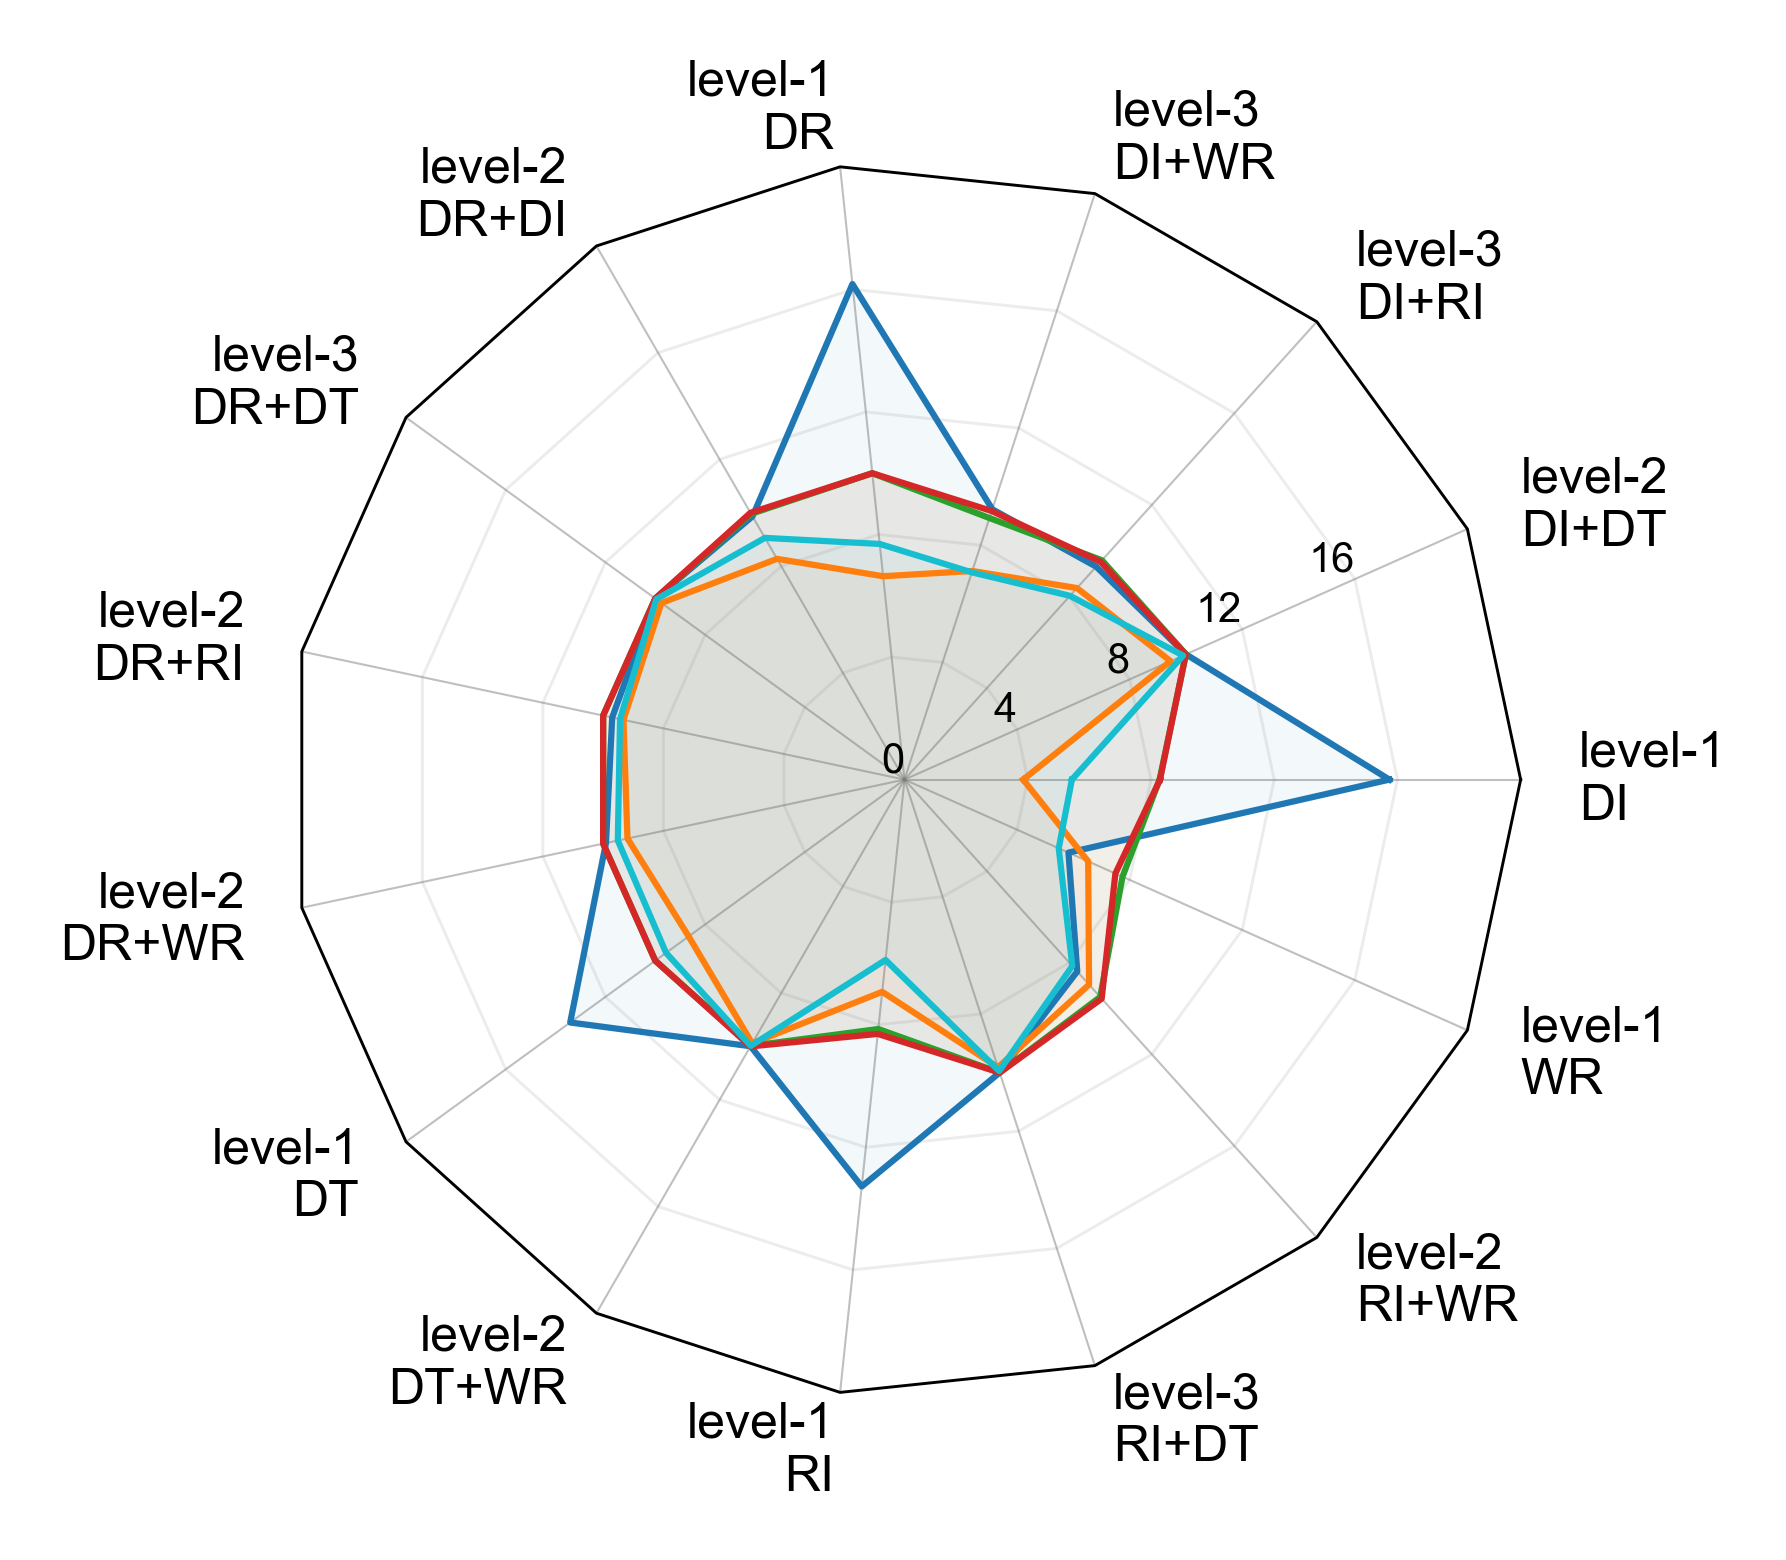
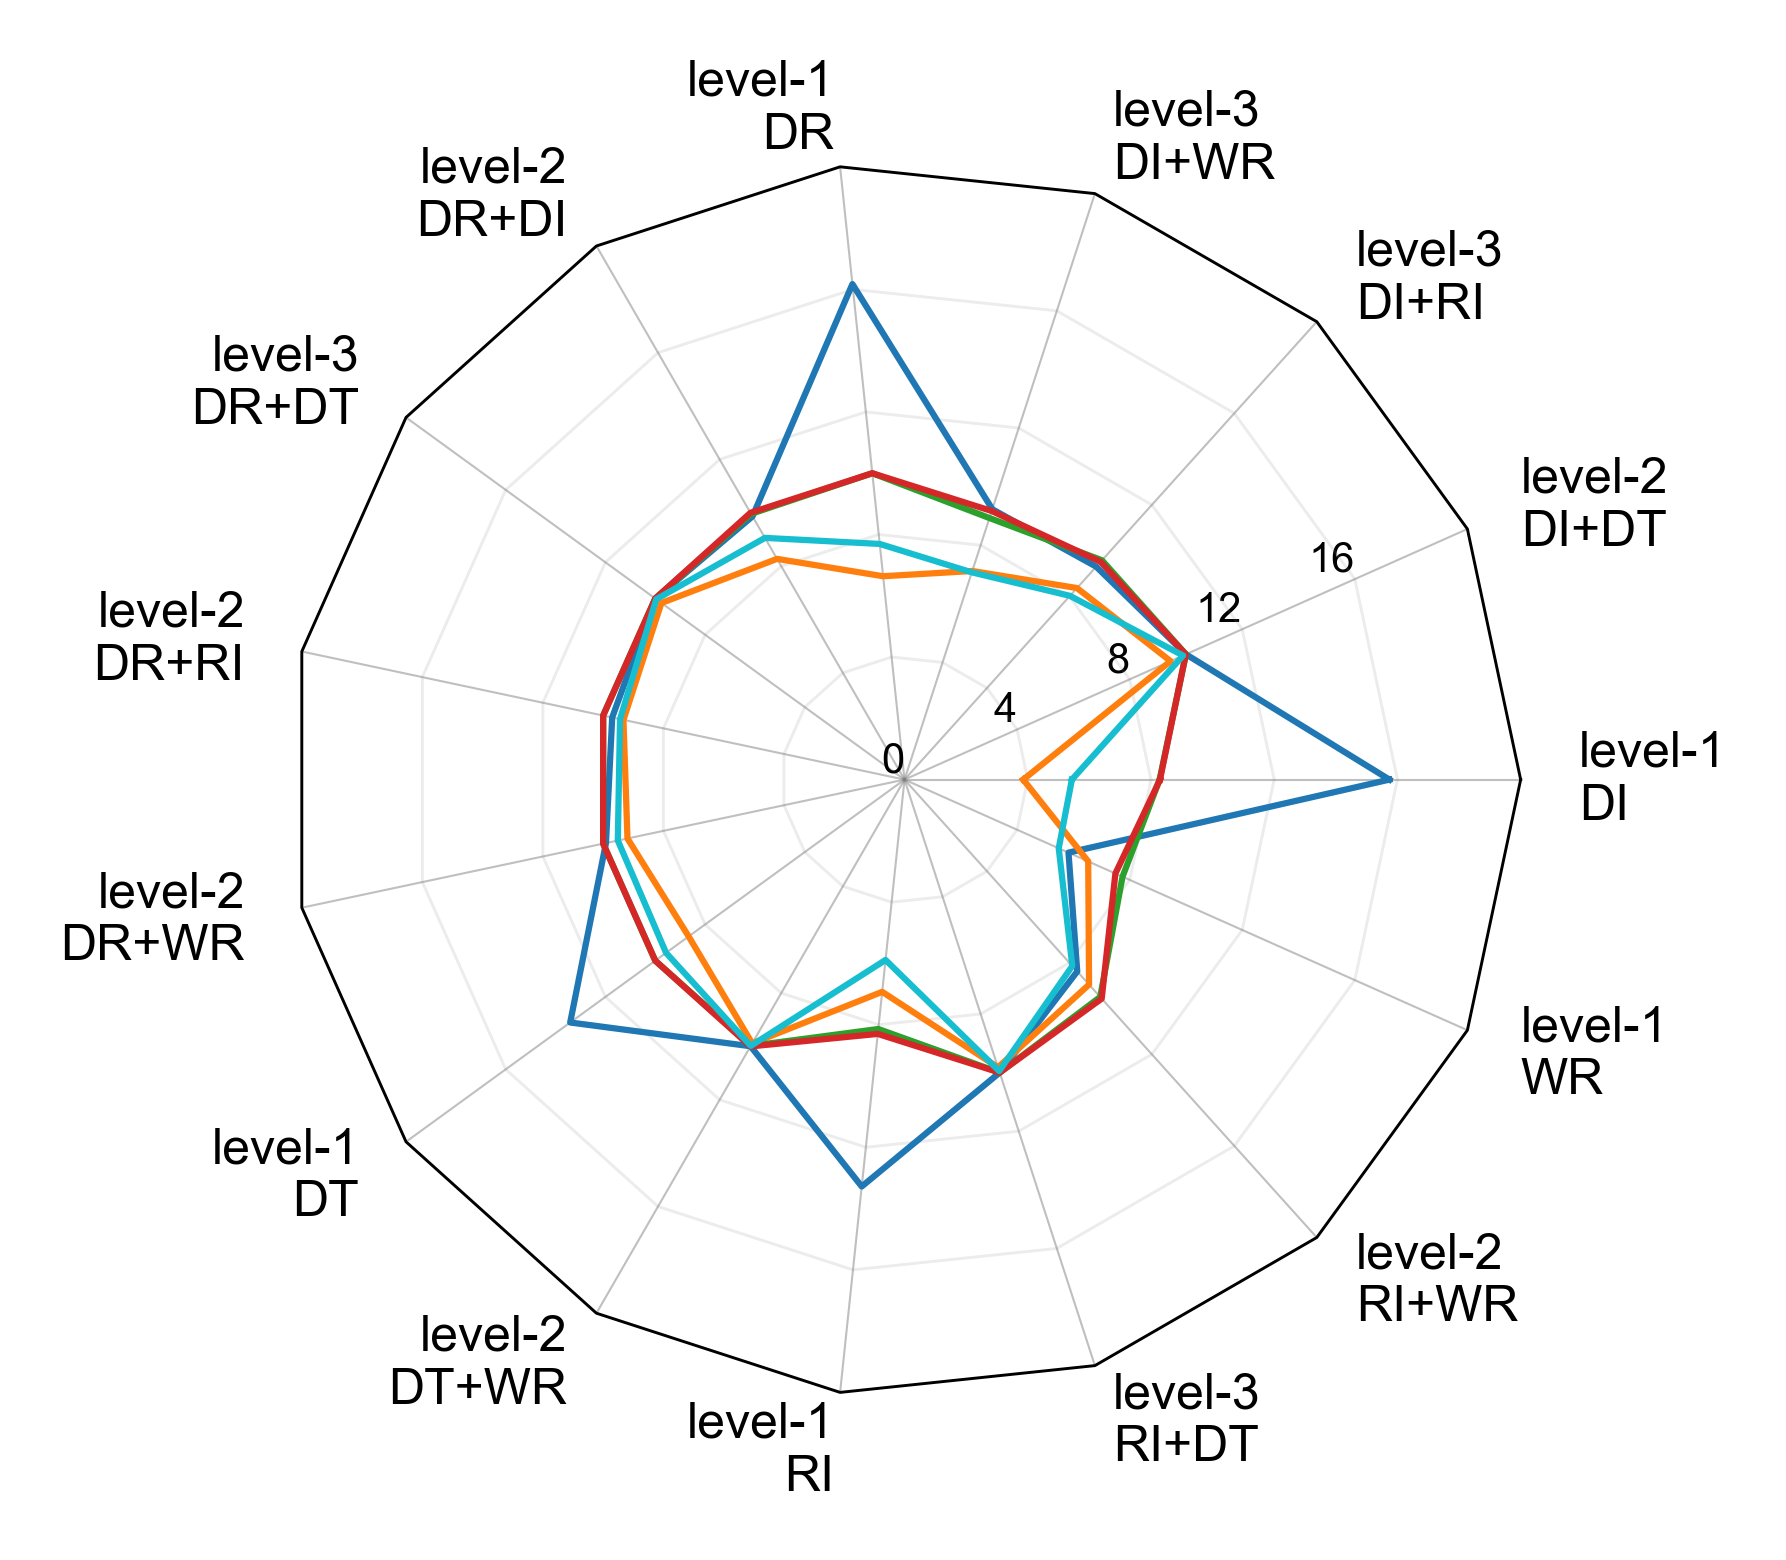
Get rid of the fills.

Changed region(s): [[0.3387, 0.3077, 0.6775, 0.6769]]

diff --git a/routing_result_plotting/file_utils.py b/routing_result_plotting/file_utils.py
@@ -426,7 +426,7 @@ def plot_spider_charts(save_result_path, sample_num):
             color = colors[idx % len(colors)]
             # Plot line with higher z-order to ensure it's above the fill
             ax.plot(angles, values, linewidth=1.5, linestyle='-', color=color, zorder=2, clip_on=False)
-            ax.fill(angles, values, color=color, alpha=0.05, zorder=1)
+            # ax.fill(angles, values, color=color, alpha=0.05, zorder=1)
 
             legend_patches.append(mpatches.Patch(color=color, label=agent))
 
